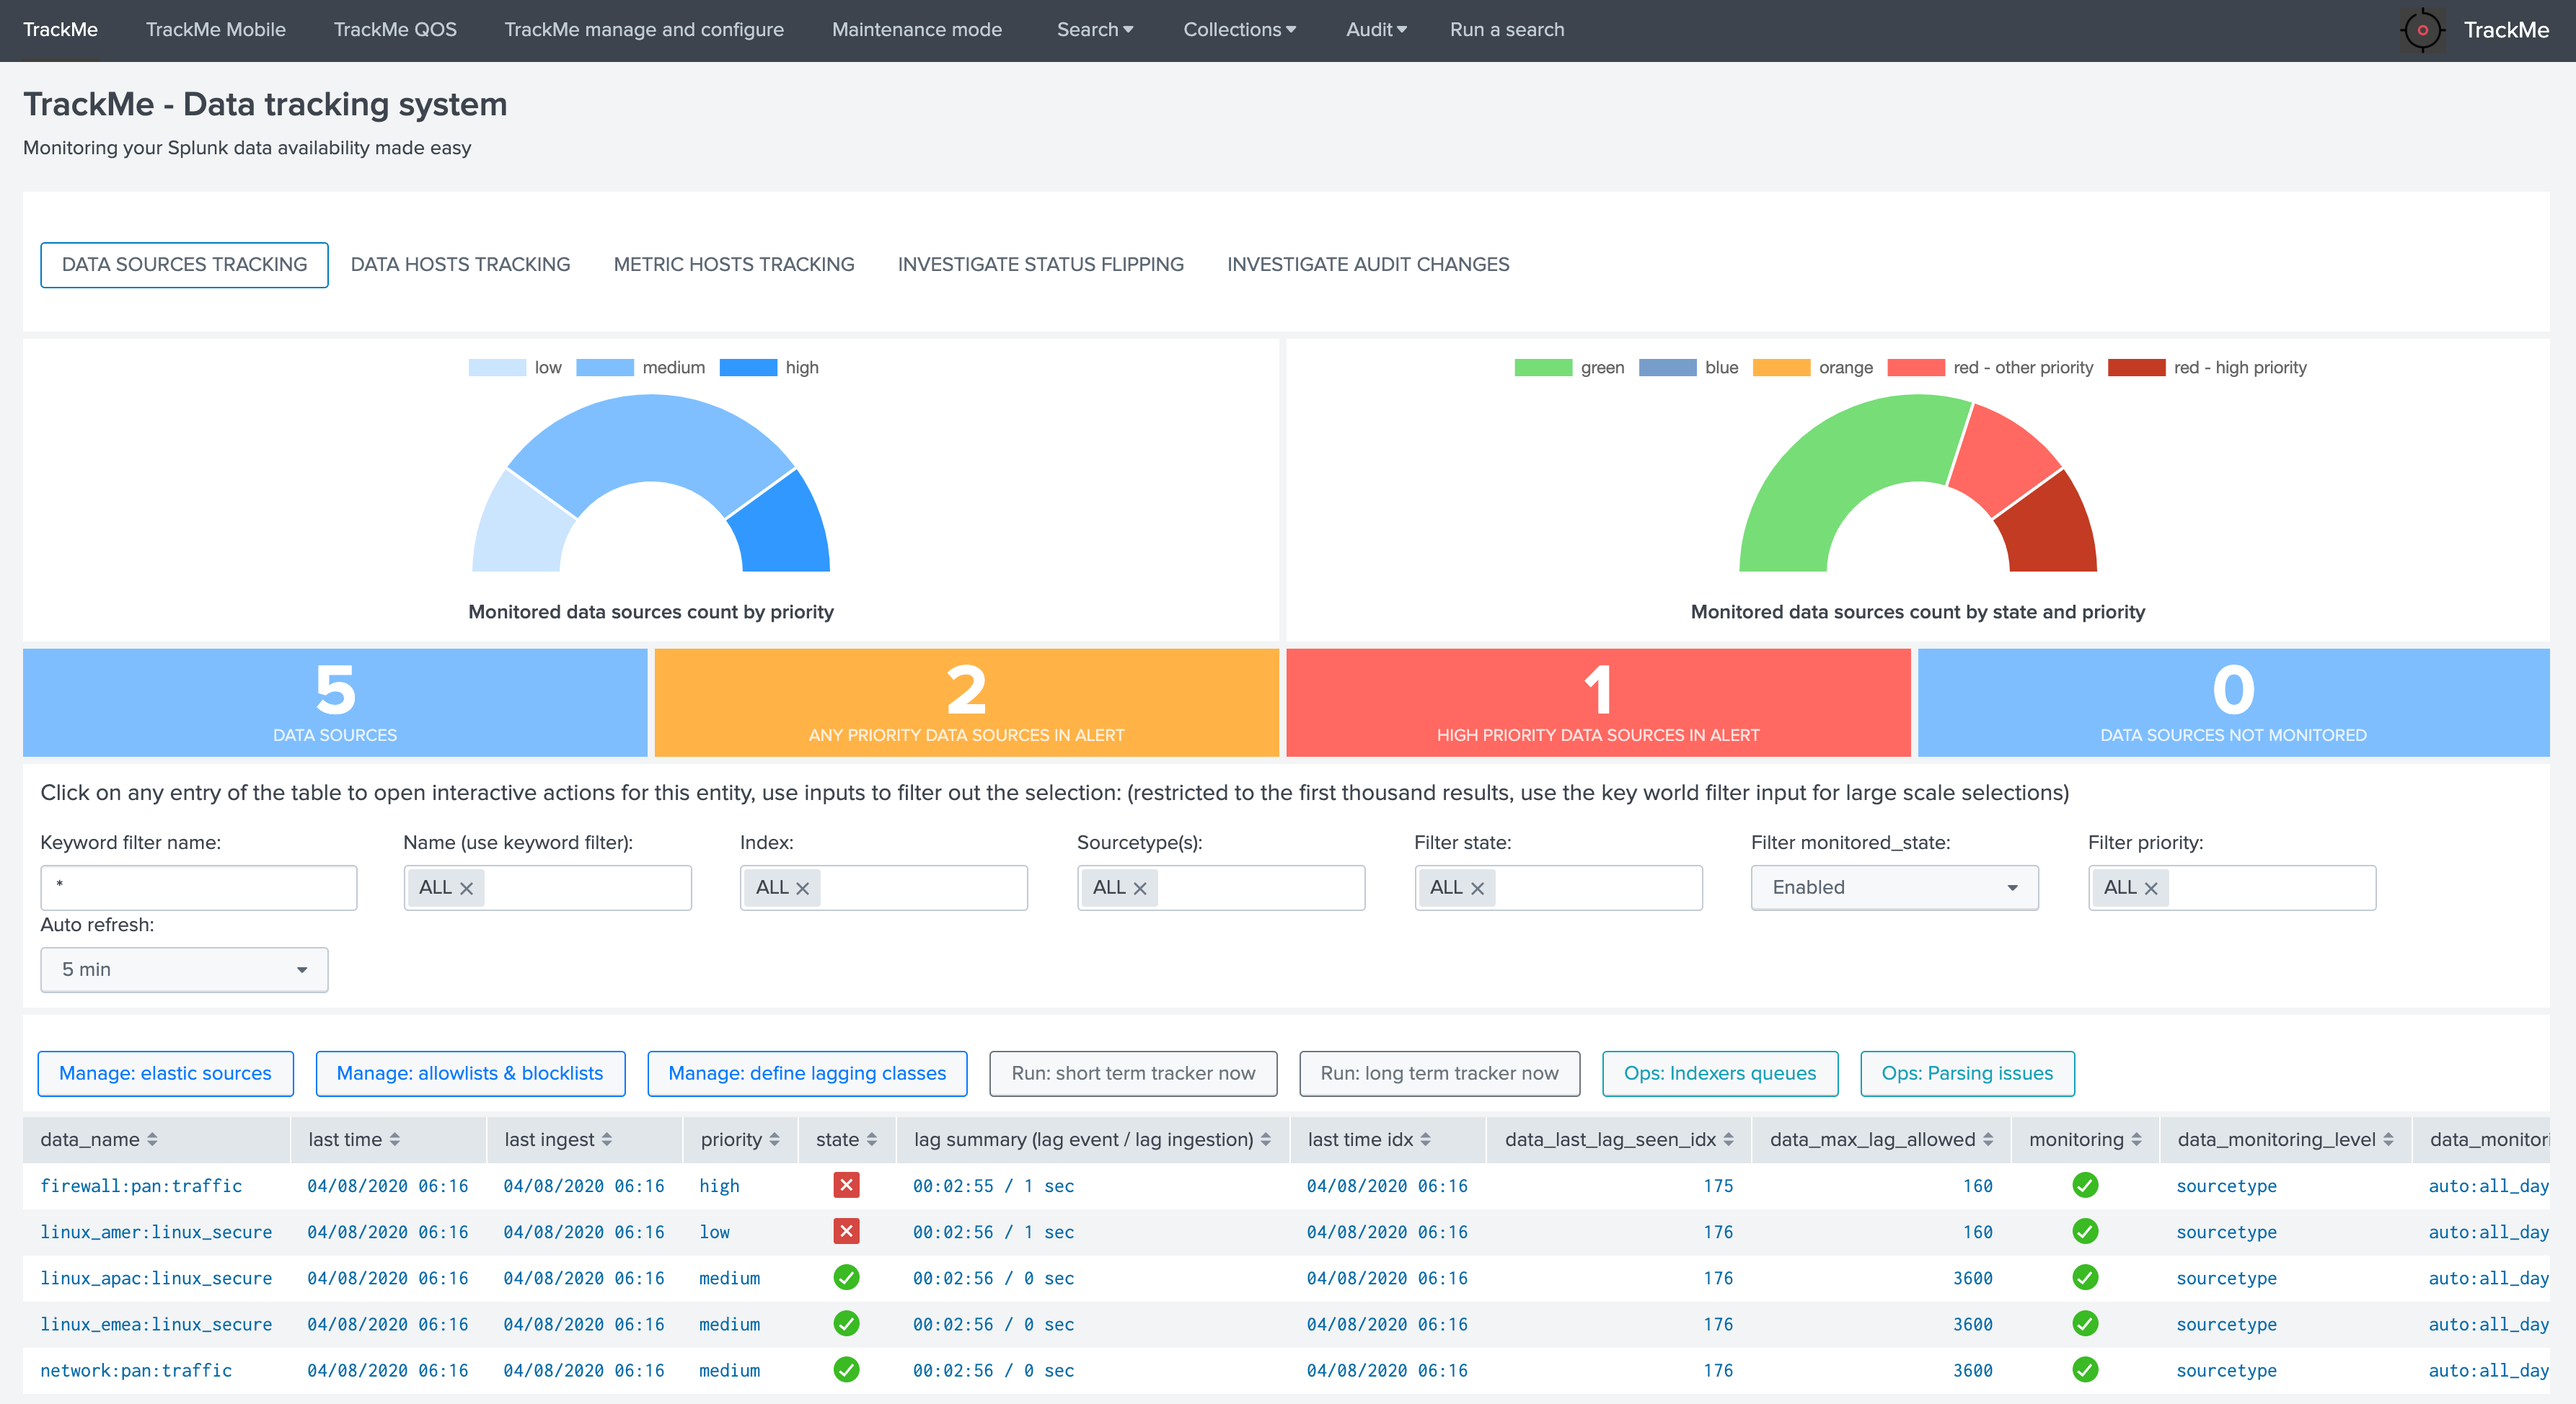
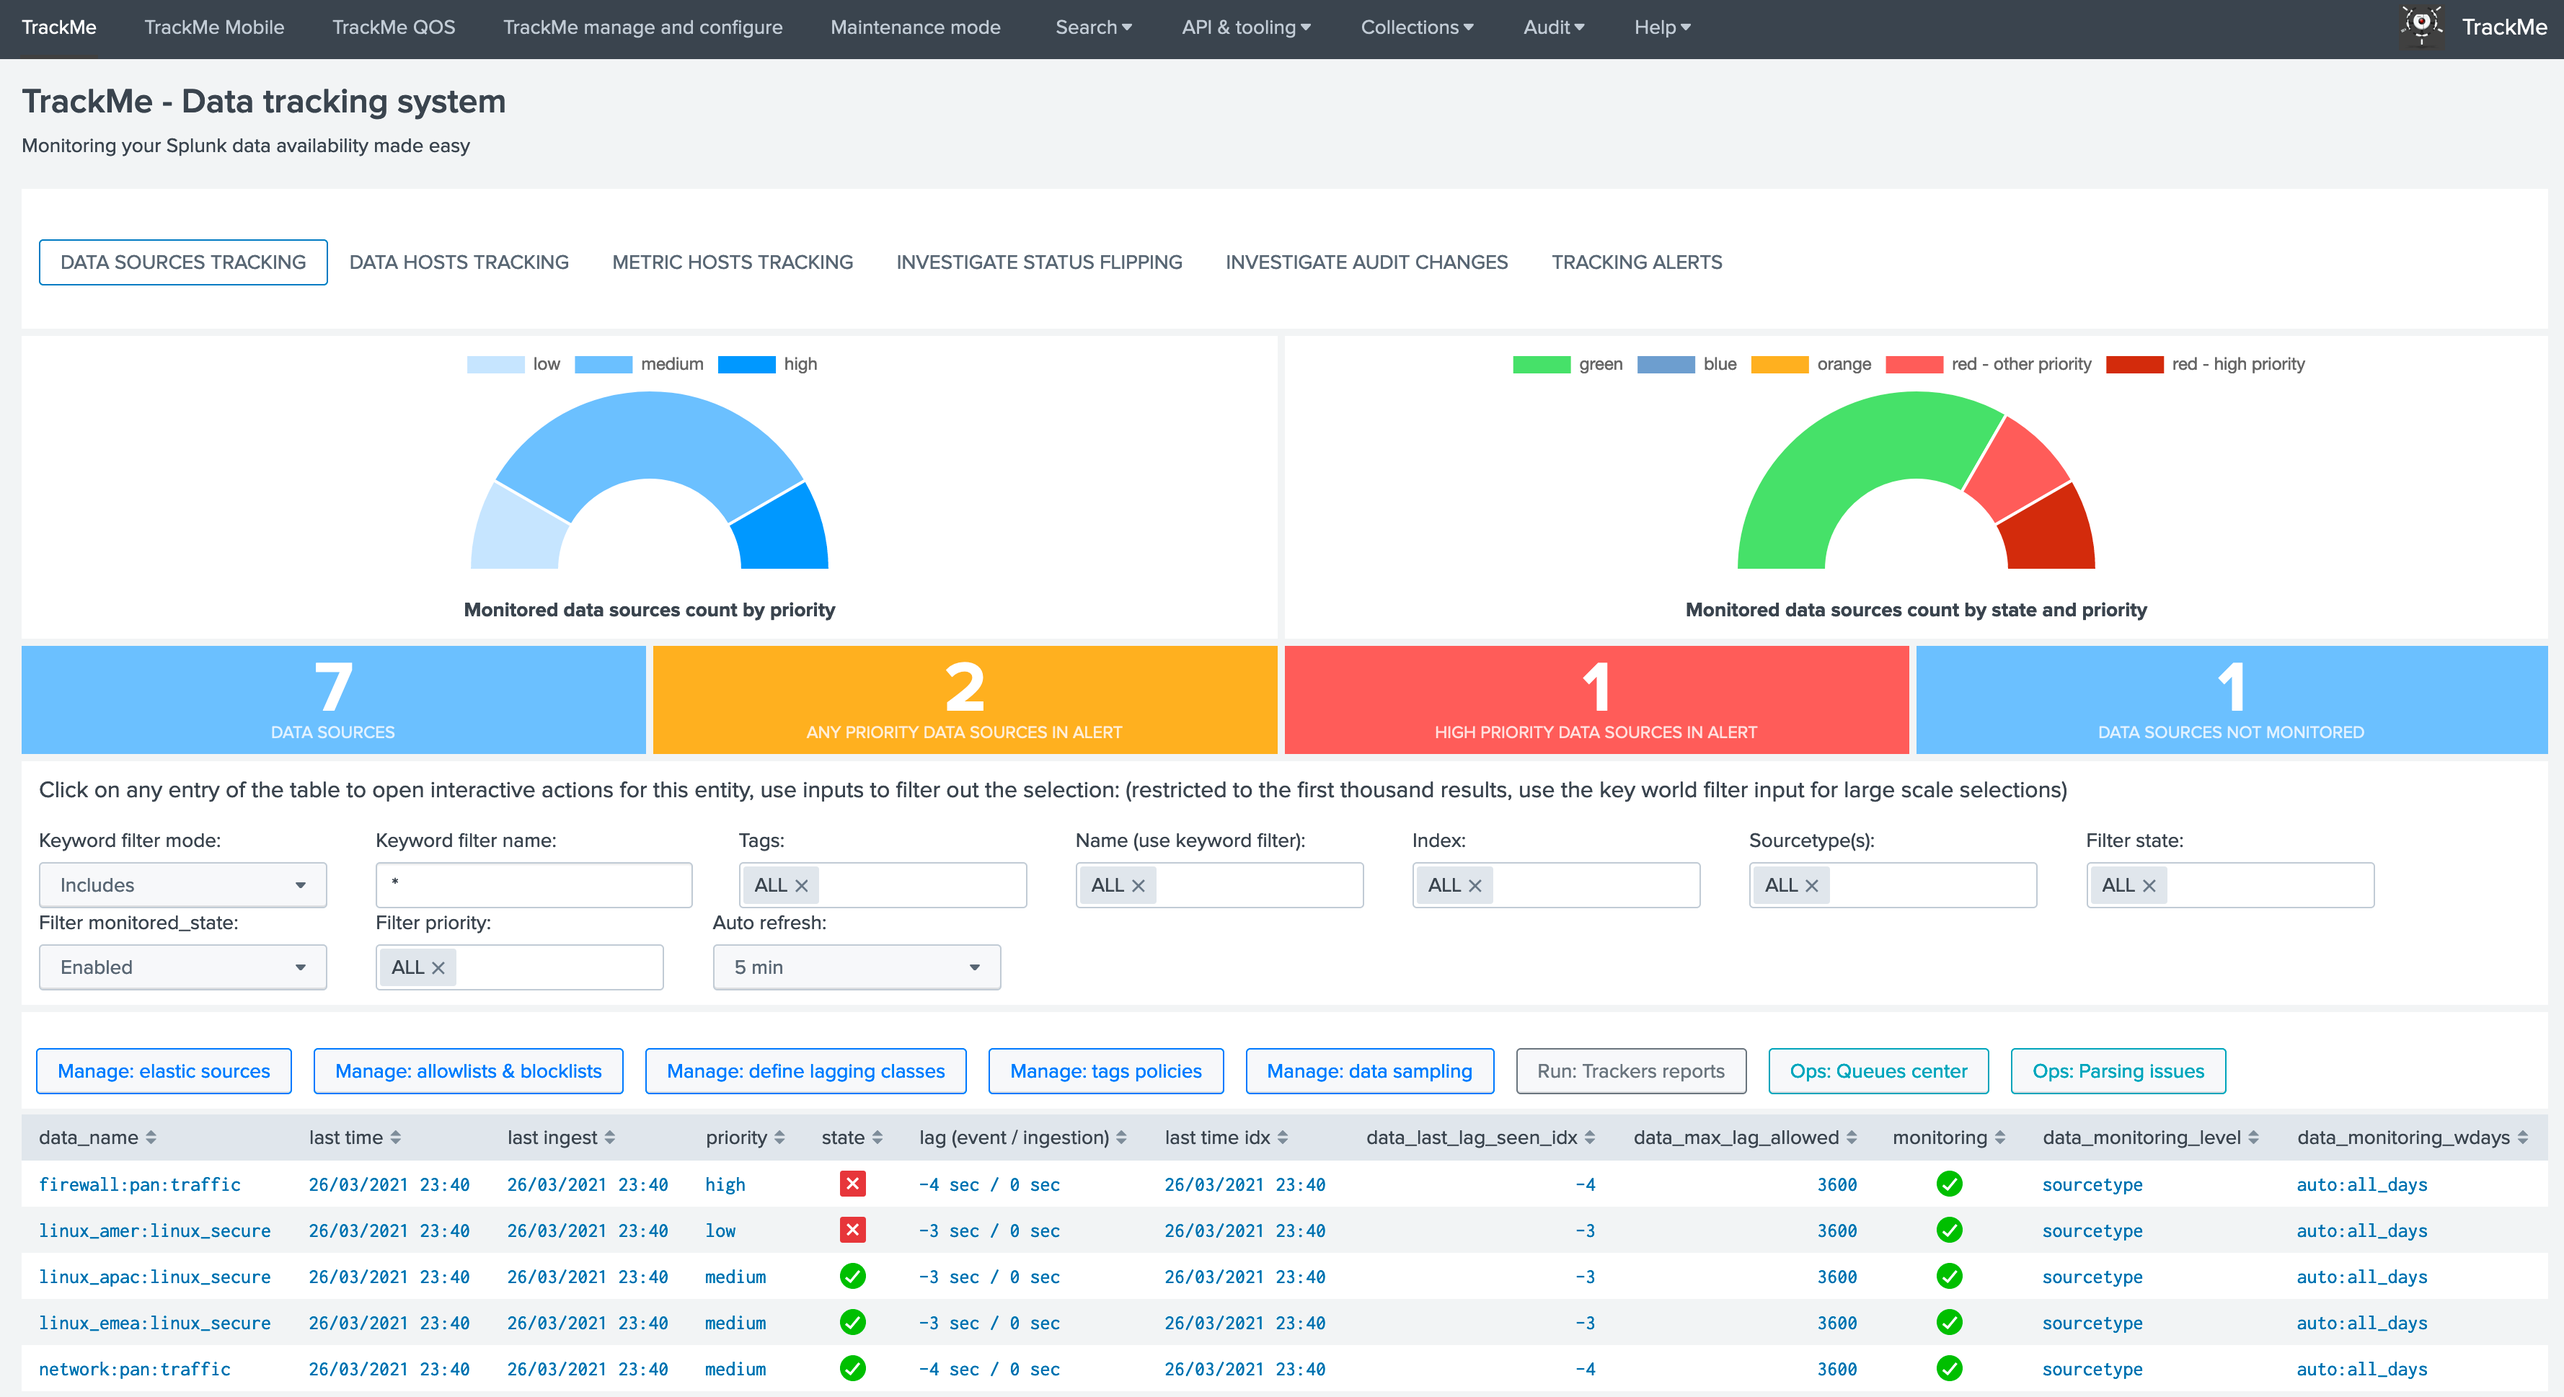
docs update

diff --git a/docs/configuration.rst b/docs/configuration.rst
@@ -406,8 +406,13 @@ However, because TrackMe relies on KVstore based lookups, it is very straightfor
 
 Such a report would be scheduled to run daily or so, and would automatically maintain the priority definition based on an external integration.
 
-Step 7: enabling out of the box alerts
-======================================
+Step 7: enabling out of the box alerts or create your own custom alerts
+=======================================================================
+
+**Since TrackMe 1.2.39, a dedicated screen allows to manage alerts within TrackMe direclty, and create your own alert in assisted mode:**
+
+Using out of the box alerts
+---------------------------
 
 **TrackMe provides out of the box alerts that can be used to deliver alerting when a monitored component reaches a red state:**
 
@@ -417,10 +422,7 @@ Step 7: enabling out of the box alerts
 
 - TrackMe - Alert on metric host availability
 
-**To see these alerts, go in:**
-
-- Nav menu ``Search / Alerts``
-- Or Splunk ``Settings / Searches, report and alerts``
+**In TrackMe main screen, go to the tracking alerts tab:**
 
 .. image:: img/ootb_alerts.png
    :alt: ootb_alerts.png
@@ -431,8 +433,32 @@ Step 7: enabling out of the box alerts
 
    - Out of the box alerts are disabled by default, you need to enable alerts to start using them
    - Alerts will trigger by default on ``high priority`` entities only, this is controlled via the macro definition ``trackme_alerts_priority``
-   - If you need additional levels of granularity in the alerting, for example to alert for medium priority with a different less critical workflow, clone these alerts and create your own versions
    - Edit the alert to perform your third party integration, for example ``sending emails`` or creating ``JIRA issues`` based on Splunk alert actions capabilities
+
+Creating custom alerts in assisted mode
+---------------------------------------
+
+**You can use this interface to a create one or more custom alerts:**
+
+.. image:: img/cutom_alerts/img001.png
+   :alt: img001.png
+   :align: center
+   :width: 1200px
+
+**This opens the assistant where you can choose between different builtin options depending on the type of entities to be monitoring:**
+
+.. image:: img/cutom_alerts/img002.png
+   :alt: img002.png
+   :align: center
+   :width: 800px
+
+Once you have created a new alert, it will be immediately visible in the tracking alerts UI, and you can use the Splunk built alert editor to modify the alert to up to your needs such as enabling third party actions, emails actions and so forth.
+
+   .. hint:: Custom alert features
+
+      - Creating custom alerts provide several layers of flexibility depending on your choices and preferences
+      - You may for example have alerts handling lowest level of prority with a specific type of alert action, and have a specific alert for highly critical entities
+      - Advanced setup can easily be performed such as getting benefits from the tags features and multiple alerts using tag policies to associate data sources and different types of alerts, recipients, actions...
 
 Final: Read the docs and start using TrackMe
 ============================================

diff --git a/docs/userguide.rst b/docs/userguide.rst
@@ -34,6 +34,7 @@ Main navigation tabs
 - ``METRIC HOSTS TRACKING`` shows metrics discovered for each ``host sending metrics`` to Splunk
 - ``INVESTIGATE STATUS FLIPPING`` shows the detection of an entity switching from a state, example green, to another state like red
 - ``INVESITAGE AUDIT CHANGES`` shows all changes performed within the UI for auditing and review purposes
+- ``TRACKING ALERTS`` shows alerts activity, allows managing and creating new custom alerts adapated to TrackMe context
 
 Data Sources tracking and features
 ----------------------------------
@@ -2974,9 +2975,13 @@ Out of the box alerts
 - ``TrackMe - Alert on data host availability``
 - ``TrackMe - Alert on metric host availability``
 
-.. warning:: These alerts are disabled by default, and need to be manually enabled if you wish to use them in your global alerting workflow.
+.. hint:: enabling out of the box alerts and custom alerts creation
 
-Built-in alerts are Splunk alerts which can be extended to be integrated in many powerful ways, such as your ticketing system (Service Now, JIRA...) or even mobile notifications with Splunk Cloud Gateway.
+   - Depending on your preferences, you may simply enable one or more out of the box alerts
+   - You can as well easily create custom alerts that are more specific to your context, with various options depending on the types of entities
+   - Once an alert is enabled, use the Splunk editor if you wish to enable third party alert actions such as creating tickets in your incident management. sending emails, etc.
+   
+For more details, see :ref:`Step 7: enabling out of the box alerts or create your own custom alerts`
 
 Alerts acknowledgment
 =====================
